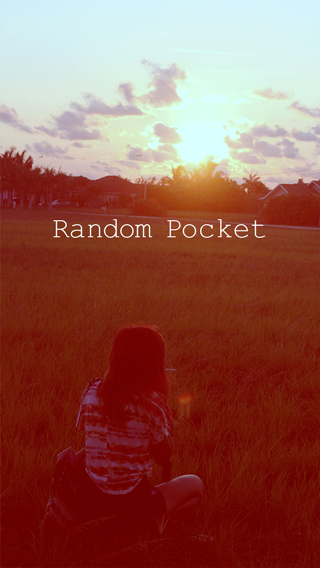
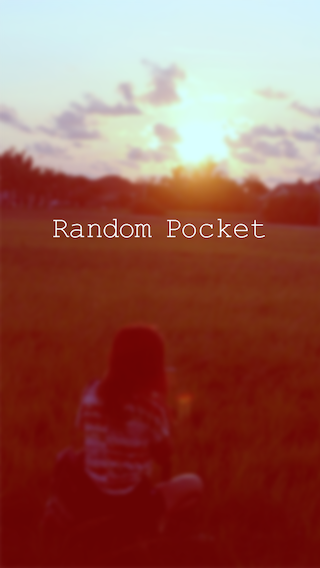
- ナビゲーションバーのタイトルを画像に - アプリアイコン変更

diff --git a/RandomPocket/Classes/UI/Views/Main/PocketSwipe/PocketSwipeViewController.m b/RandomPocket/Classes/UI/Views/Main/PocketSwipe/PocketSwipeViewController.m
@@ -37,7 +37,6 @@ static NSString* const PocketDetailCellIdentifier = @"PocketDetailCell";
     [self.collectionView registerNib:[UINib nibWithNibName:@"PocketDetailCell" bundle:nil] forCellWithReuseIdentifier:PocketDetailCellIdentifier];
     self.actionSheet = [self createActionSheet];
     self.collectionView.contentOffset = CGPointMake(self.collectionView.frame.size.width * self.selectedPocketIndex, 0);
-    self.navigationController.navigationBar.topItem.title = NSLocalizedStringFromTable(@"Back", @"Common", nil);
 }
 
 - (void)viewWillAppear:(BOOL)animated
